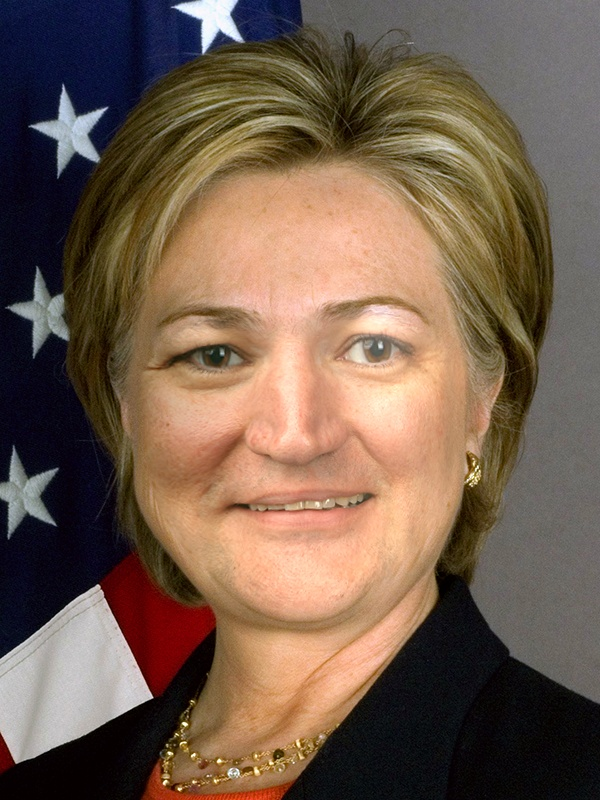
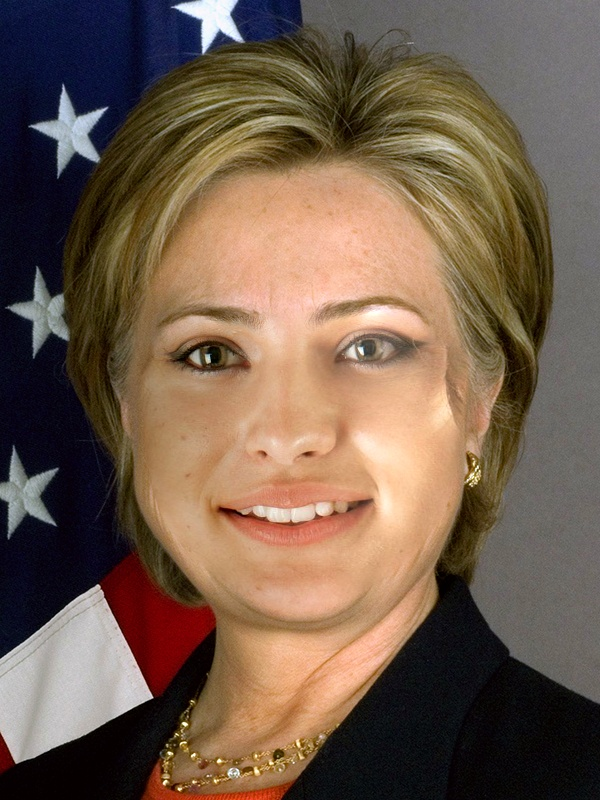
swapface py tra ve link

Changed region(s): [[0.24, 0.375, 0.78, 0.75]]

diff --git a/src/pages/SwapFace.jsx b/src/pages/SwapFace.jsx
@@ -13,27 +13,22 @@ export default function SwapFace() {
      const [swapFaceIPFS, setSwapFaceIPFS] = useState('')
      
      const swapFace = async () => {
-          
-          // const srcIPFS = await new saveFile("srcImage.png", srcImage.file, {saveIPFS: true})
-          // console.log("src by user",srcIPFS._ipfs);
+          const srcIPFS = await new saveFile("srcImage.png", srcImage.file, {saveIPFS: true})
+          console.log("src by user",srcIPFS._ipfs);
 
-          // const dstIPFS = await new saveFile("dstImage.png", dstImage.file, {saveIPFS: true})
-          // console.log("dst by user",dstIPFS._ipfs);
+          const dstIPFS = await new saveFile("dstImage.png", dstImage.file, {saveIPFS: true})
+          console.log("dst by user",dstIPFS._ipfs);
 
-
-          // const sendImageToSwap = await axios.post('http://127.0.0.1:7777', 
-          //      {url_src: srcIPFS._ipfs, url_dst: dstIPFS._ipfs}
-          // )
-          let t1 = 'https://ipfs.moralis.io:2053/ipfs/QmZvZKVU7xM2NW46mvCMPPSLxKe6VE7FbWQidkyquuicnC'
-          let t2 = 'https://ipfs.moralis.io:2053/ipfs/QmSzYpRbAYr52QCek7cfqEvTEa8Pnas63xVHqtBcTdX6Vw'
-          const sendImageToSwap = await axios.post('http://127.0.0.1:7777', 
-               {url_src: t1, url_dst: t2}
+          const sendImageToSwap = await axios.post('http://e362-171-252-188-153.ngrok.io', 
+               {url_src: srcIPFS._ipfs, url_dst: dstIPFS._ipfs}
           )
-
+          // let t1 = 'https://ipfs.moralis.io:2053/ipfs/QmZvZKVU7xM2NW46mvCMPPSLxKe6VE7FbWQidkyquuicnC'
+          // let t2 = 'https://ipfs.moralis.io:2053/ipfs/QmSzYpRbAYr52QCek7cfqEvTEa8Pnas63xVHqtBcTdX6Vw'
+          // const sendImageToSwap = await axios.post('http://127.0.0.1:7777', 
+          //      {url_src: t1, url_dst: t2}
+          // )
 		console.log(sendImageToSwap);
-          const swapFace = await axios.get('http://localhost:5000/swapFace')
-          console.log(swapFace);
-          setSwapFaceIPFS(swapFace.data.image)
+          setSwapFaceIPFS(sendImageToSwap.data.image_url)
 	}
 
      const handleSrcImageUpload = async (e) => {

diff --git a/server.js b/server.js
@@ -299,46 +299,6 @@ app.post('/removeBackground', async (req, res) => {
 
 })
 
-app.get('/swapFace', async(req, res) => {
-     let promises = [];
-     let ipfsArray = []
-     promises.push( new Promise( (res, rej) => {
-          fs.readFile('./src/userupload/output6_7.jpg', (err, data) => {
-               if (err) rej()
-               ipfsArray.push({
-                    path: `images/output6_7.jpg`,
-                    content: data.toString("base64")
-               })
-               console.log("dataaaa", data);
-               // console.log("base64", data.toString("base64"));
-               res()
-          })
-     }) )
-     //Push Image to IPFS
-     Promise.all(promises).then(() => {
-          axios.post("https://deep-index.moralis.io/api/v2/ipfs/uploadFolder", 
-               ipfsArray,
-               {
-                    headers: {
[1 lines of base64/hex data omitted]
-                         "Content-Type": "application/json",
-                         "accept": "application/json"
-                    }
-               }
-          ).then( (response) => {
-               console.log(response.data);
-               return res.json({
-                    success: true, 
-                    image: response.data[0].path,
-                    message: 'Swapface'
-               })
-          })
-          .catch ( (error) => {
-               console.log(error)
-          })
-     })
-})
-
 app.post('/uploadImage', async (req, res) => {
      //const {id} = req.body
      let ipfsArray = [];

diff --git a/FaceSwap1/main.py b/FaceSwap1/main.py
@@ -12,7 +12,7 @@ from requests.auth import HTTPBasicAuth
 import requests
 import base64
 from msilib import type_key
-
+import json
 
 app = Flask(__name__)
 CORS(app)
@@ -74,25 +74,26 @@ def request_page():
         os.makedirs(dir_path)
 
     cv2.imwrite('results/output6_7.jpg', output)
-    cv2.imwrite('../src/userupload/output6_7.jpg', output)
-    #dang lam
-    with open("test14.png", "rb") as image2string:
+
+    # upload image swap to ipfs
+    with open("results/output6_7.jpg", "rb") as image2string:
         converted_string = base64.b64encode(image2string.read())
 
-    dataIPFS = {
-        'path': 'images/output6_7.jpg',
-        'content': f'{converted_string}'
-    }
-
+    s = converted_string.decode('utf-8')
+    dataIPFS = [{
+        'path': 'images/output.jpg',
+        'content': f'{s}'
+    }]
     headers2 = {
[2 lines of base64/hex data omitted]
         'Content-Type': 'application/json',
         'Accept': 'application/json'
     }
     
-    x = requests.post('https://deep-index.moralis.io/api/v2/ipfs/uploadFolder', data= dataIPFS, headers=headers2)
-    print("x",x.content)
-    print("y",x.text)
+    x = requests.post('https://deep-index.moralis.io/api/v2/ipfs/uploadFolder', json = dataIPFS, headers=headers2)
+    y = json.dumps(x.json()[0])
+    resp = json.loads(y)
+
     #
     ##For debug
     # if not args.no_debug_window:
@@ -102,7 +103,7 @@ def request_page():
         
     #     cv2.destroyAllWindows()
     
-    data_set = {'Success': 'True', 'Message': 'SwapFace'}
+    data_set = {'Success': 'True', 'Message': 'SwapFace in python', 'image_url' : f'{resp["path"]}'}
     json_dump = json.dumps(data_set)
     return json_dump
 
